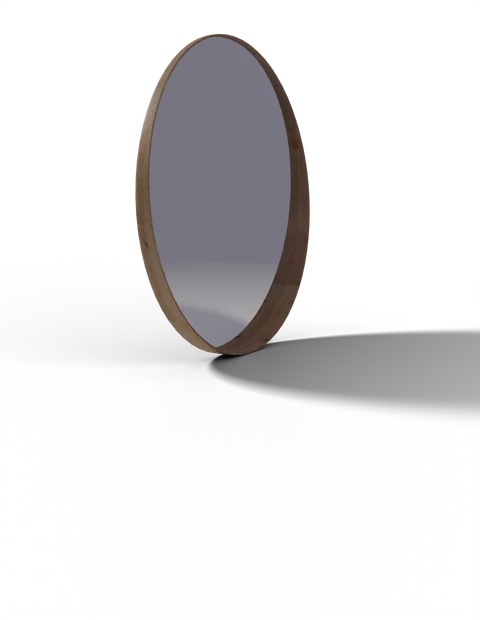
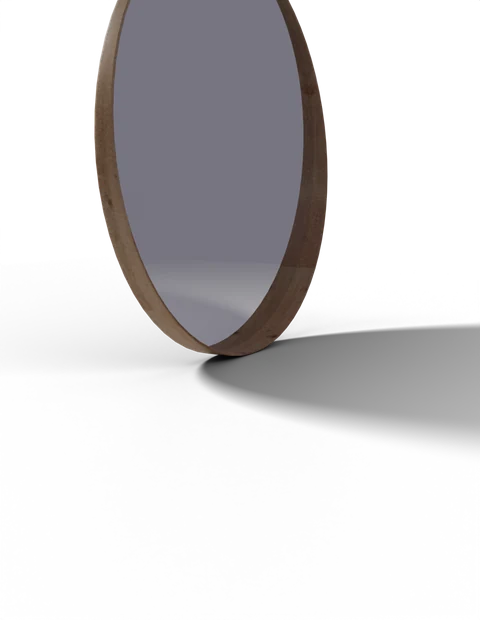
Mirror: bring closer (target_h 2.0→2.6) keep centered

Changed region(s): [[0.1875, 0.0, 1.0, 0.7355], [0.5625, 0.3984, 0.5938, 0.4597]]

diff --git a/scripts/render_mount_objects_v2.py b/scripts/render_mount_objects_v2.py
@@ -202,7 +202,7 @@ ICONS = {
     "mirror": {
         "glb":     "sketchfab_mirror_stockholm.glb",
         "rot_xyz": (0, 0, 0),
-        "target_h": 2.0,
+        "target_h": 2.6,
         "z_floor": 0.0,
     },
     "art-frame": {
